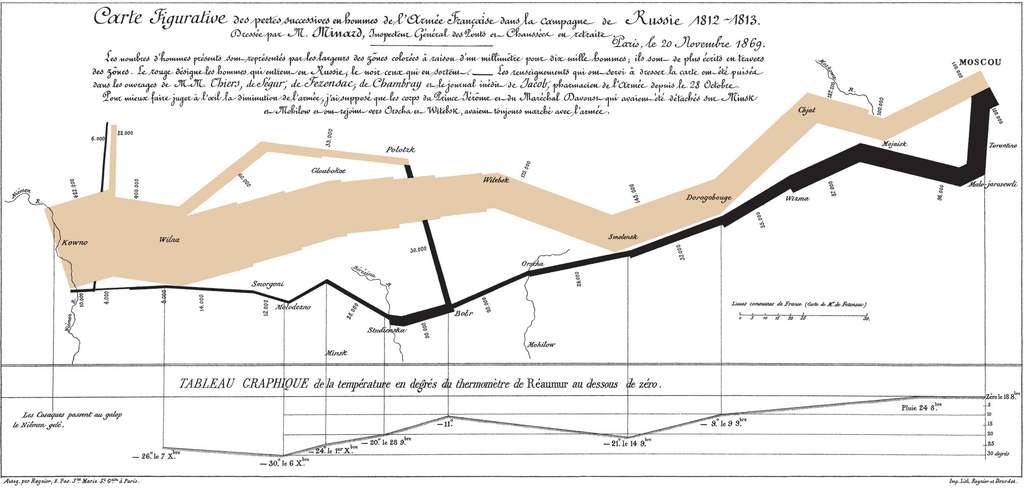
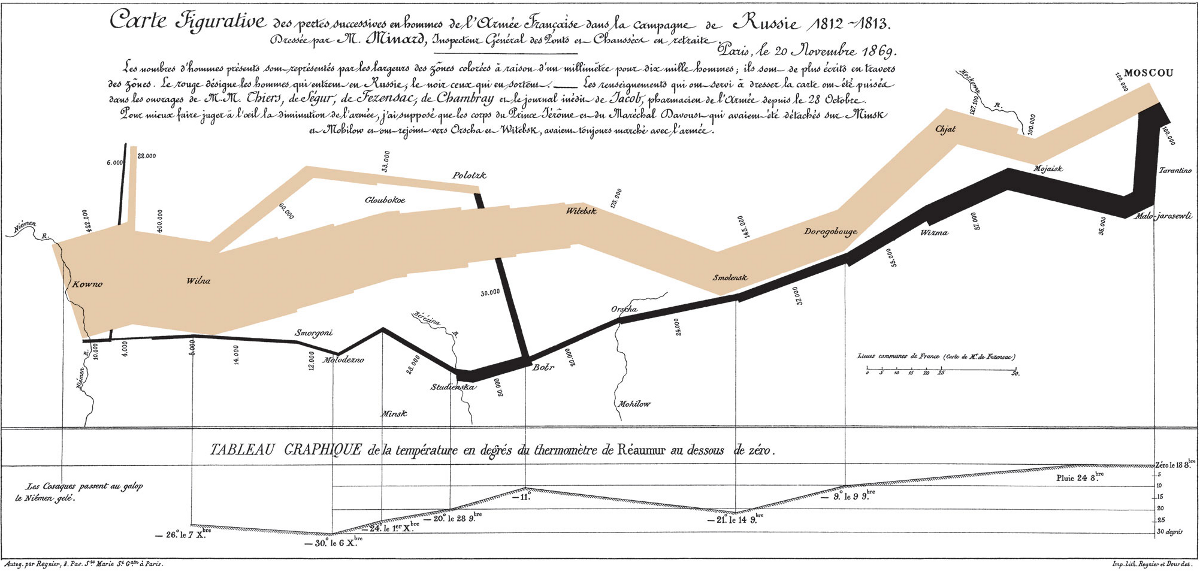
improve image quality

diff --git a/text/dp.tex b/text/dp.tex
@@ -2648,7 +2648,7 @@ Source:& Wikipedia, The Free Encyclopedia~\cite{wiki:Minard}
 \end{singlespace}
 
 \begin{center}
-  \includegraphics[width=\textheight,angle=90]{./images/Minard.png}
+  \includegraphics[angle=90]{./images/Minard.png}
 \end{center}
 
 
